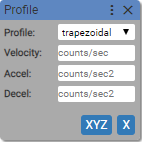
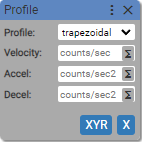
imac editor changes 1

diff --git a/website-v2/src/components/Image.jsx b/website-v2/src/components/Image.jsx
@@ -1,10 +1,10 @@
 import React from 'react';
 
-export default ({ id, className, src, alt }) => (
-  <div className="image-wrapper">
+export default ({ id, className, imgId, imgClassName, src, alt }) => (
+  <div id={ id } className={`image-wrapper ${className || ''}`}>
     <img
-      id={ id }
-      className={ className }
+      id={ imgId }
+      className={ imgClassName }
       src={ src }
       alt={ alt } />
   </div>

diff --git a/website-v2/src/css/customTheme.css b/website-v2/src/css/customTheme.css
@@ -8,6 +8,7 @@
   --ifm-color-primary-darkest: #205D3B;
   --ifm-h1-extra-font-size: 3rem;
   --ifm-color-white-alpha-80: #ffffffcc;
+  --ifm-color-secondary-contrast-background: #f7f7fb;
 }
 
 /* your custom css */

diff --git a/website-v2/docs/imac_editor.md b/website-v2/docs/imac_editor.md
@@ -25,13 +25,15 @@ IMAC Editor contains five areas:
 
 Main menu contains File drop-down menu and drop-down menus for each device connected to IMAC.
 
-### File
+### Manage IMAC program files
 
-IMAC editor has two options available for opening and saving IMAC programs:
-
-<div style={{marginBottom: 20}}>
-  <Image src="../assets/editor_file_menu_1.png" alt="File drop-down menu"/>
+<div className="d--flex margin-bottom--lg">
+  <Image className="margin-right--sm" src="../assets/editor_file_menu_1.png" alt="File drop-down menu 1"/>
+  <Image className="margin-right--sm" src="../assets/editor_file_menu_2.png" alt="File drop-down menu 2"/>
+  <Image className="margin-right--sm" src="../assets/editor_file_menu_3.png" alt="File drop-down menu 3"/>
 </div>
+
+IMAC editor has two options available for opening or saving IMAC programs:
 
 __1. Using IMAC’s file system__
 
@@ -67,13 +69,65 @@ Click on `Save to PC`. Give a file a name, click `Save` button and blocks that a
   <Image src="../assets/save_to_pc.png" alt="Save to PC"/>
 </div>
 
+If you nead to open last saved file then click on `Last saved file`.
+
+<div className="d--flex margin-bottom--lg">
+  <Image className="margin-right--sm" src="../assets/editor_file_menu_2.png" alt="Last saved file"/>
+</div>
+
+### Manage IMAC config files
+
+IMAC allows to save device settings into config files for later use.
+
+<div className="d--flex margin-bottom--lg">
+  <Image className="margin-right--sm" src="../assets/editor_file_menu_3.png" alt="File drop-down menu 3"/>
+</div>
+
+You can select a config file for the current session by clicking on `Set active config`. The following dialog window will be opened. Select config file and click on `Set` button. 
+
+<div className="d--flex margin-bottom--lg">
+  <Image className="margin-right--sm" src="../assets/editor_config_file_menu_1.png" alt="Set active config"/>
+</div>
+
+If you need to make changes to device settings, but you want to keep previous settings, then you need to create a new config file. Click on `Save active config as` to save current settings into new file. The following dialog window will be open.
+
+<div className="d--flex margin-bottom--lg">
+  <Image className="margin-right--sm" src="../assets/editor_config_file_menu_2.png" alt="Save active config as"/>
+</div>
+
+Enter a config file name with .cfg extension and click `Save` button. You need to select a new file as active config file. Click on `Set active config` and select new config file.
+
+:::caution
+All changes to device settings are being automatically saved into active config file.
+:::
+
+IMAC allows to download or upload config files from user's computer.
+
+If you need to send config file to someone, click on `Download config to PC`, select file and click `Download` button.
+
+If you need to use config file you received from someone, click on `Upload config from PC`, select file and save it. After that you can set uploaded file as active config.
+
 ## Tabs of Sequences
 
 IMAC programs can consist of multiple sequences. Main sequence is where the program starts. Additional sequences can be added and used as ordinary functions or event handlers. Additional sequences are invokable from main sequence or another additional sequences.
 
+<div className="d--flex margin-bottom--lg">
+  <Image className="margin-right--sm" src="../assets/editor_tabs_1.png" alt="main tab"/>
+</div>
+
+<div className="d--flex margin-bottom--lg">
+  <Image className="margin-right--sm" src="../assets/editor_tabs_2.png" alt="additional tab"/>
+</div>
+
 [How to use additional sequence as event handler](imac_editor.md#event-listener)
 
-## Block Palette
+## Blocks
+
+Here is an example of block:
+
+<div className="d--flex margin-bottom--lg">
+  <Image className="margin-right--sm" src="../assets/editor_block_example.png" alt="block example"/>
+</div>
 
 Block palette contains the following command block categories:
 
@@ -88,7 +142,7 @@ Block palette contains the following command block categories:
 
 ### Motion Blocks
 
-#### Mode
+#### 1. Mode
 
 Sets the type of the motor and the mode in which motor works.
 
@@ -97,6 +151,8 @@ Sets the type of the motor and the mode in which motor works.
   <Image className="margin-right--xs" src="../assets/blocks/mode_2.png" alt="Mode block"/>
 </div>
 
+:::note Block Arguments
+
 *Motor type*:
 + Stepper
 + Servo
@@ -104,9 +160,14 @@ Sets the type of the motor and the mode in which motor works.
 *Operating mode*:
 + Position
 
->Shown block sets the motor type to *`Stepper`* and operating mode to *`Position`* for axis `X` on the port name `XYZ`.
+:::
+:::info Action
 
-#### __Profile__
+Sets the motor type to *`Stepper`* and operating mode to *`Position`* for axis `X` on the port name `XYZ`.
+
+:::
+
+#### 2. Profile
 
 Sets motion characteristics.
 
@@ -116,19 +177,35 @@ Sets motion characteristics.
   <Image className="margin-right--xs" src="../assets/blocks/profile_3.png" alt="Profile block"/>
 </div>
 
+:::note Block Arguments
+
 *Profile*:
 + trapezoidal
 + s-curve
 
-*Velocity*: positive integer or [variable] (units: counts/sec)
+*Velocity*: (units: counts/sec)
++ positive integer
++ [variable]
 
-*Acceleration*: positive integer or [variable] (units: counts/sec^2)
+*Acceleration*: (units: counts/sec^2)
++ positive integer
++ [variable]
 
-*Deceleration*: positive integer or [variable] (units: counts/sec^2)
+*Deceleration*: (units: counts/sec^2)
++ positive integer
++ [variable]
 
-*Jerk*: positive integer or [variable] (units: counts/sec^3)
+*Jerk*: (units: counts/sec^3)
++ positive integer
++ [variable]
 
->Sets the motion profile, velocity, acceleration, deaceleration and jerk for axis `X` on the port name `XYZ`.
+:::
+:::info Action
+
+1. Sets the motion profile to `trapezoidal`, velocity, acceleration, deaceleration for axis `X` on the port name `XYR`.
+1. Sets the motion profile to `s-curve`, velocity, acceleration, jerk for axis `X` on the port name `XYR`.
+
+:::
 
 #### Move
 
